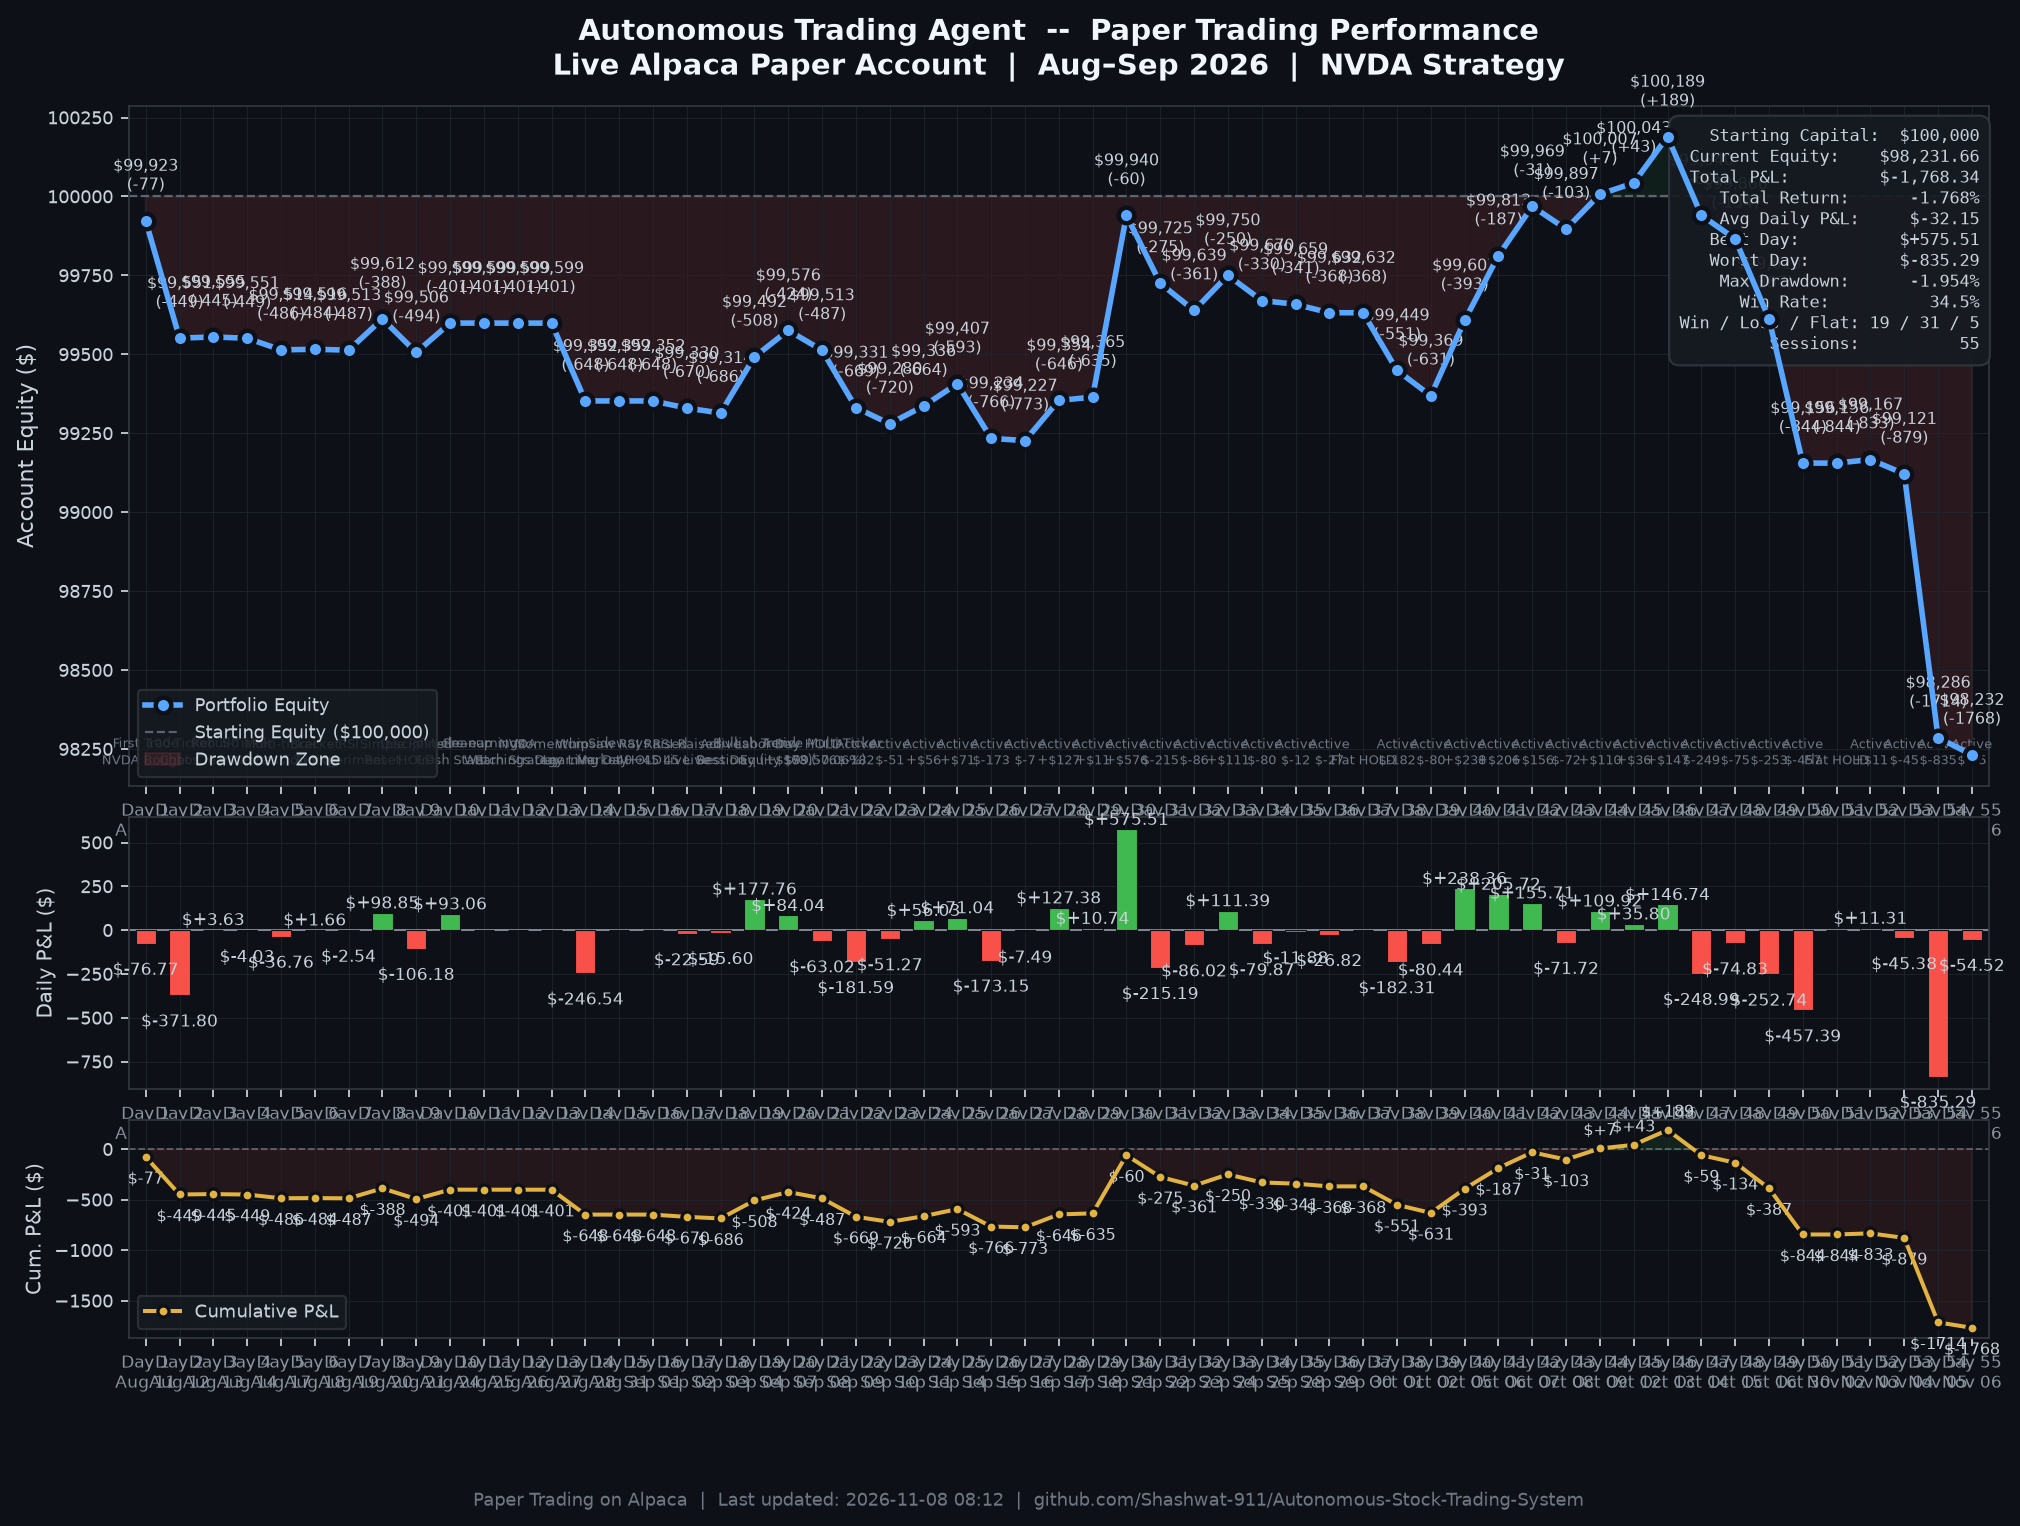
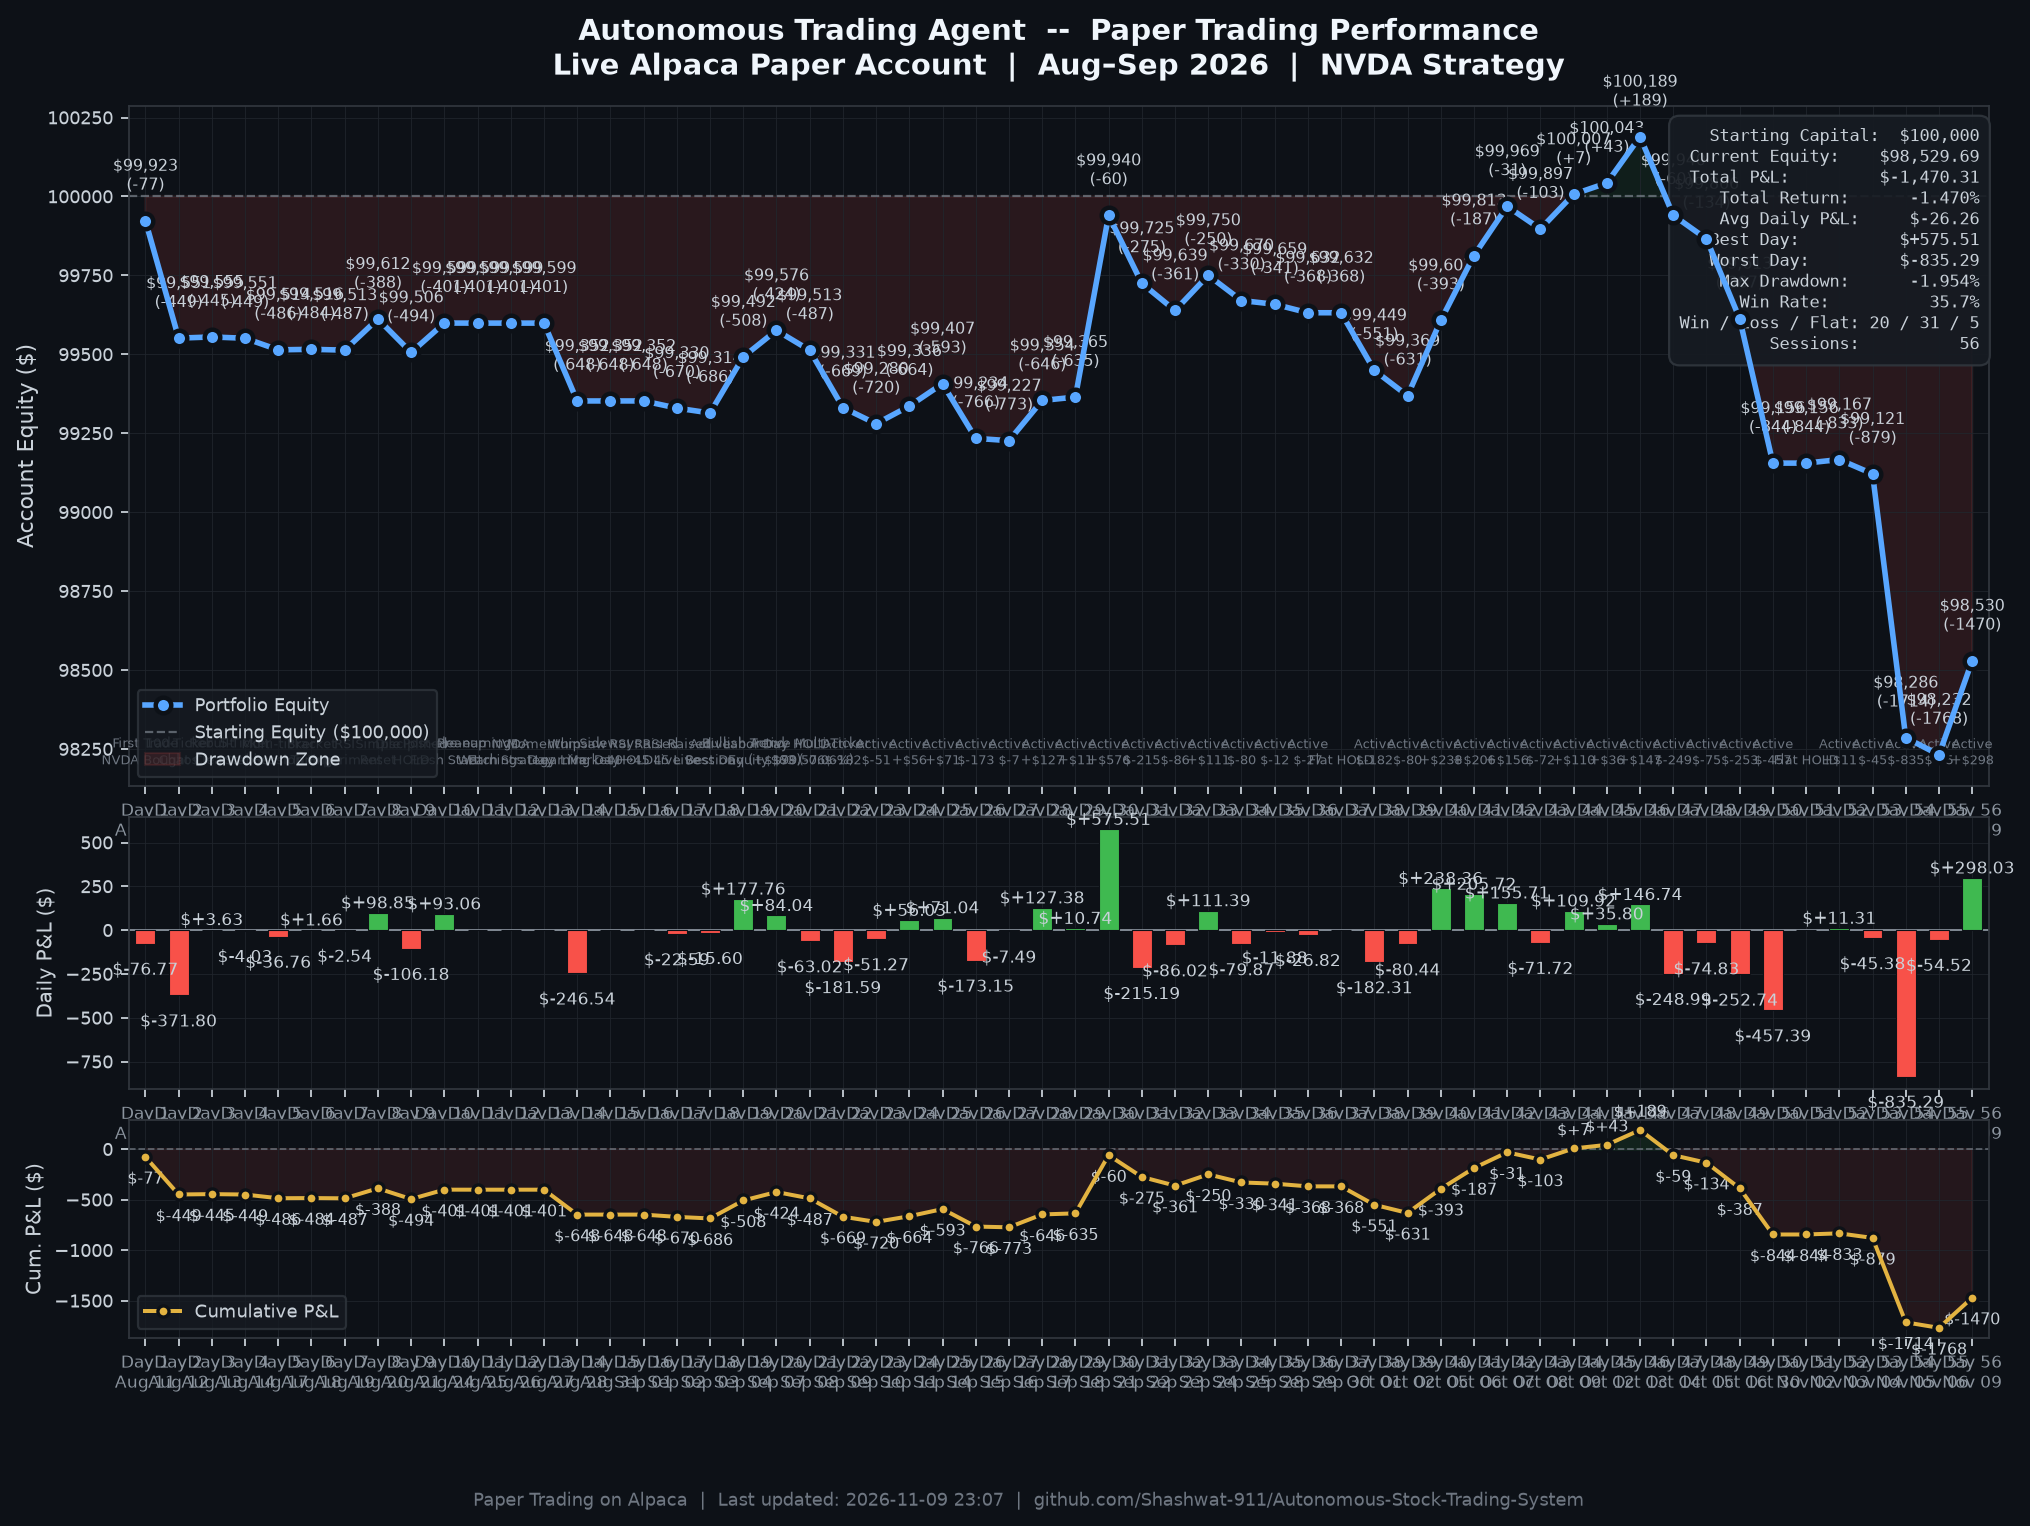
auto(session): 2026-11-09 | equity=$98,530 | return=-1.470%

diff --git a/README.md b/README.md
@@ -47,7 +47,7 @@ The automated trading bot is deployed in the cloud on Render with continuous mon
 
 > **Paper Trading on Alpaca** | Started: Aug 11, 2026 | Initial Capital: $100,000.00 | Universe: NVDA, TSLA, META, MSFT, AAPL (5-Stock High-Momentum Universe)
 
-![Daily P&L Chart](outputs/daily_pnl_chart.png?v=20261106)
+![Daily P&L Chart](outputs/daily_pnl_chart.png?v=20261109)
 
 *Chart auto-generated from live Alpaca Portfolio History API and verified session telemetry via [`scripts/generate_pnl_chart.py`](scripts/generate_pnl_chart.py).*
 
@@ -110,8 +110,9 @@ The automated trading bot is deployed in the cloud on Render with continuous mon
 | **Day 53** | Nov 04 (Wed) | $99,121.47 | -$45.38 | -$878.53 | -0.879% | Active Session (-$45.38) |
 | **Day 54** | Nov 05 (Thu) | $98,286.18 | -$835.29 | -$1713.82 | -1.714% | Loss Session (-$835.29) |
 | **Day 55** | Nov 06 (Fri) | $98,231.66 | -$54.52 | -$1768.34 | -1.768% | Active Session (-$54.52) |
+| **Day 56** | Nov 09 (Mon) | $98,529.69 | **+$298.03** | -$1470.31 | -1.470% | Profitable Session (+$298.03) |
 
-> **Current Equity**: $98,231.66 | **Total P&L**: $-1,768.34 | **Best Day**: $+575.51 | **Win Rate**: 34.5% (19W / 31L / 5 Flat) | **Max Drawdown**: -1.768% | **Sessions**: 55
+> **Current Equity**: $98,529.69 | **Total P&L**: $-1,470.31 | **Best Day**: $+575.51 | **Win Rate**: 35.7% (20W / 31L / 5 Flat) | **Max Drawdown**: -1.768% | **Sessions**: 56
 ---
 
 ## System Architecture
